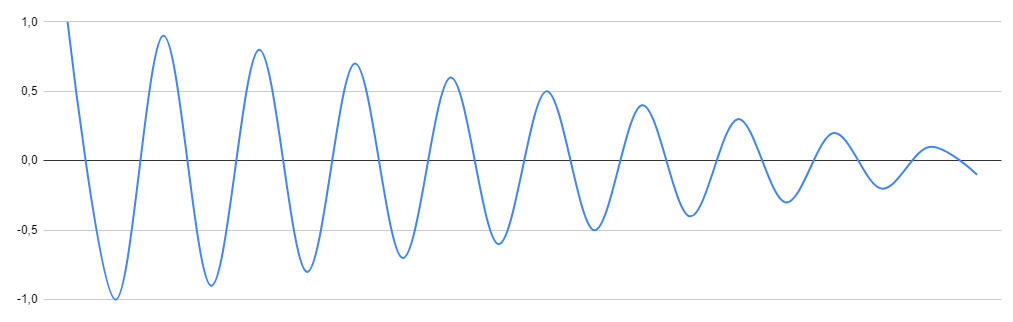
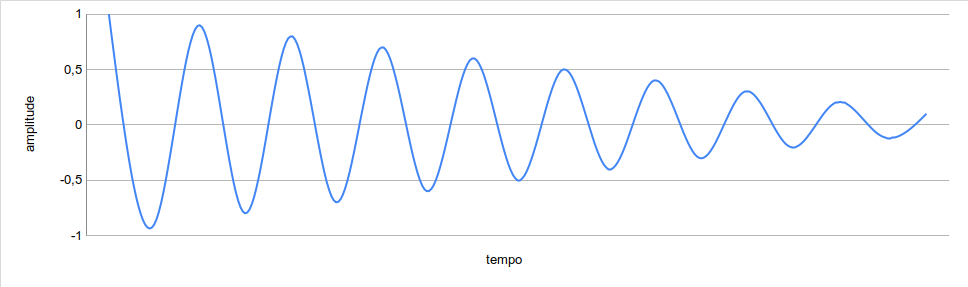
Revisão da primeira parte. Incluído vídeo com animação e eixos no gráfico.

Changed region(s): [[0.0, 0.0, 1.0, 0.9477]]

diff --git a/index.html b/index.html
@@ -16,28 +16,46 @@
         <div id="conteudo">
 
         <div>
-            <h1>Ondas de som e osciladores</h1>
+            <h1>Ondas Sonoras e Osciladores</h1>
+            <p> 
+                Sons são ondas de pressão que viajam pelo ar (ou algum outro meio), 
+                 chegando a nossos ouvidos. Diferente das ondas do mar, que se 
+                 movem para cima e para baixo, as ondas sonoras se movem para frente 
+                 e para trás (tecnicamente, ondas do mar são transversais e as sonoras 
+                 são longitudinais, se movem na mesma direção da vibração que as provoca).
+                 Essas ondas se movem e a variação de pressão do ar que entra  
+                 e sai dos nossos ouvidos é percebida como um som.
+            </p>
+
+            <p> Talvez você não tenha percebido, mas uma parte de um alto-falante, chamada de cone, se move.
+                Esse movimento pressiona as moléculas de ar e isso se propaga até chegar aos nossos ouvidos. 
+                A animação seguinte é excelente para mostrar as ondas que se propagam no ar
+                quando o cone do alto-falante se move.
+            </p>
+
+            <iframe width="560" height="315" src="https://www.youtube.com/embed/RxdFP31QYAg?start=168" 
+            title="YouTube video player" frameborder="0" 
+            allow="accelerometer; autoplay; clipboard-write; encrypted-media; gyroscope; picture-in-picture" 
+            allowfullscreen>
+            </iframe>
+            
             <p>
-                 Sons são ondas de pressão que viajam pelo ar, ou algum outro meio,
-                 chegando a nossos ouvidos. Diferente das ondas do oceano, que se 
-                 movem para cima e para baixo, ondas de pressão se movem para frente 
-                 e para trás. Essas ondas então se movem para nossos ouvidos entrando 
-                 e saindo, e percebemos isso como um som. Sintetização de som é a arte 
+                 E como podemos criar sons? Aqui, nosso interesse é pelos sintetizadores, 
+                 instrumentos eletrônicos analógicos ou digitais. Sintetização de som é a arte 
                  de criar sinais que, quando transformados em ondas sonoras por um 
-                 alto-falante, pessoas acham interessante. Durante o percurso deste 
-                 artigo iremos explorar dispositivos que criam e modificam sinais 
+                 alto-falante, as pessoas achem interessantes. Durante o percurso deste 
+                 artigo, iremos explorar dispositivos que criam e modificam sinais 
                  usados para sintetizar o som.
             </p>
 	
             <p>
-                O primeiro desses dispositivos que iremos considerar é chamado de oscilador.
-                Um oscilador gera um sinal consistente que se repete. Sinais de osciladores
-                e outras fontes são usadas para controlar o movimento dos cones no nosso 
-                alto-falante, que fazem as ondas sonoras que chegam aos nossos ouvidos.
+                O primeiro desses dispositivos é chamado de oscilador.
+                Um oscilador gera um sinal que se repete e serve de base para etapas seguintes.
                 Se você amarrar uma ponta de uma corda em uma maçaneta, se afastar um pouco
                 e balançar a outra ponta da corda pra cima e pra baixo bem rápido, você vai
                 estar fazendo mais ou menos a mesma coisa que um oscilador, tendo como diferença
-                que você está balançando uma corda, enquanto um oscilador faz isso com um sinal de áudio.
+                que você está balançando uma corda, enquanto um oscilador faz isso com um sinal de áudio
+                que depois será transformado em movimentação das moléculas de ar.
             </p>
 
     
@@ -46,12 +64,11 @@
             <p>
                 Sinais de áudio  são normalmente representados em um gráfico onde o eixo horizontal
                 representa o tempo e o eixo vertical representa a pressão no sinal. Isso é chamado
-                de representação do áudio no domínio do tempo. Gráficos no domínio do tempo são como
-                instruções para alto-falantes sobre como mover-se para dentro e para fora. Quando o gráfico
-                lê 1, o cone do alto falante é empurrado completamente para fora, e quando lê -1, o cone
+                de representação do áudio no domínio do <b>tempo</b>. Esse gráfico no domínio do tempo representa as 
+                instruções para um alto-falante se mover para dentro e para fora. Quando o gráfico
+                indica 1, o cone do alto falante é empurrado completamente para fora, e quando indica -1, o cone
                 é puxado completamente para dentro. Esse movimento cria uma onda de pressão no ar que
-                escutamos como um som, se um cone do alto-falante se mover para dentro e para fora de
-                acordo com o gráfico acima, ele vai fazer o som de um tambor.
+                escutamos como um som.
             </p>
    
         </div>
@@ -59,15 +76,14 @@
    
             <h1>Frequência e tom</h1>
             <p>
-                A quantidade de vezes que uma onda de som se move para dentro e para fora é chamado de frequência.
-                Frequência é medida em ciclos por segundo. O tamanho de um ciclo único de uma forma de onda
-                é a quantidade de tempo até que a forma de onda comece a se repetir. Pessoas normalmente escutam
+                O número de vezes que uma onda de som se repete no tempo é chamado de frequência.
+                Frequência é medida em ciclos por segundo. Pessoas normalmente escutam
                 um aumento da frequência de uma onda sonora conforme ela aumenta de tom. Quando a frequência
                 de um oscilador é dobrada, o tom sobe uma oitava. Por exemplo, um oscilador gerando um sinal
-                que se repete a cada segundo 440 vezes vai ter o mesmo tom que um Lá médio em um piano.
-                Um oscilador gerando um sinal que se repete a cada segundo 880 vezes vai ter o mesmo tom
-                que um Lá uma oitava acima do Lá médio. Uma forma comum de dizer “Ciclos por segundo
-                ” é usando a unidade de medida “Hertz”, abreviada como “Hz”.
+                que se repete 440 vezes a cada segundo corresponde ao tom Lá médio em um piano.
+                Um oscilador gerando um sinal que se repete 880 vezes a cada segundo corresponde a um tom
+                Lá uma oitava acima do Lá médio. Uma forma comum de dizer ciclos por segundo
+                é usando a unidade de medida Hertz, abreviada como Hz.
             </p>
         </div>
 
